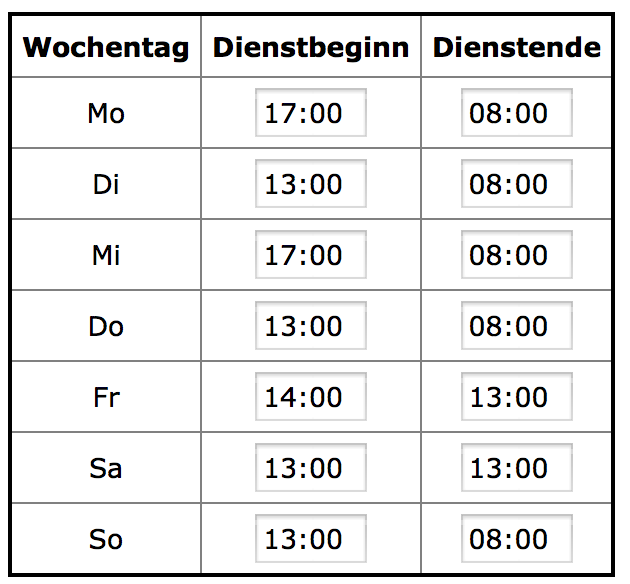
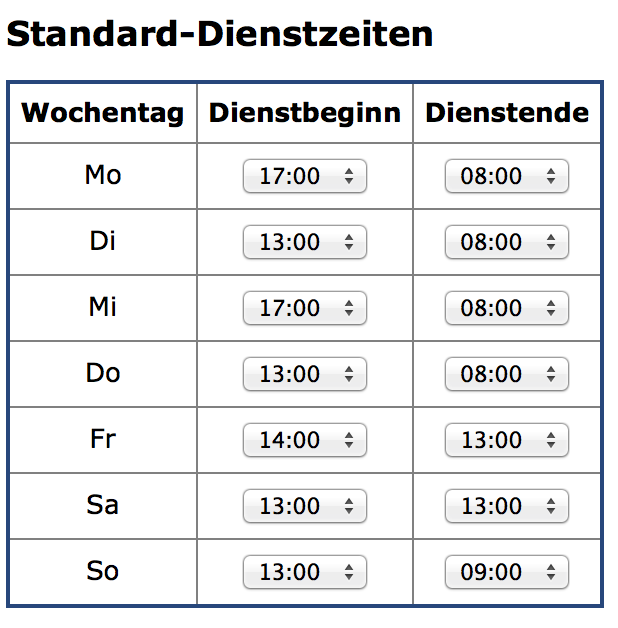
Documentation Update

Changed region(s): [[0.0, 0.0, 0.9838, 1.0]]

diff --git a/PHP/overview.php b/PHP/overview.php
@@ -23,7 +23,7 @@ if ($settings->showToDoManager == 1) {
 if ($_SESSION['isClient']) {
     echo '<a href="monthPlanView.php">Monats-Plan</a> <br/>';
     echo '<a href="teamTable.php">Team</a> <br/>';
-    echo '<a href="defaultTimes.php">Standard Dienst-Zeiten</a> <br/>';
+    echo '<a href="defaultTimes.php">Standard-Dienstzeiten</a> <br/>';
     echo '<a href="settingsView.php">Einstellungen</a> <br/>';
 }
 else {

diff --git a/PHP/WorkingTimes.php b/PHP/WorkingTimes.php
@@ -54,7 +54,7 @@ class WorkingTimes
 
     public function printTable()
     {
-        echo '<h1>Standard Dienst-Zeiten</h1>';
+        echo '<h1>Standard-Dienstzeiten</h1>';
 
         echo '<table id="defaultTimes">';
         echo '<tr>';
